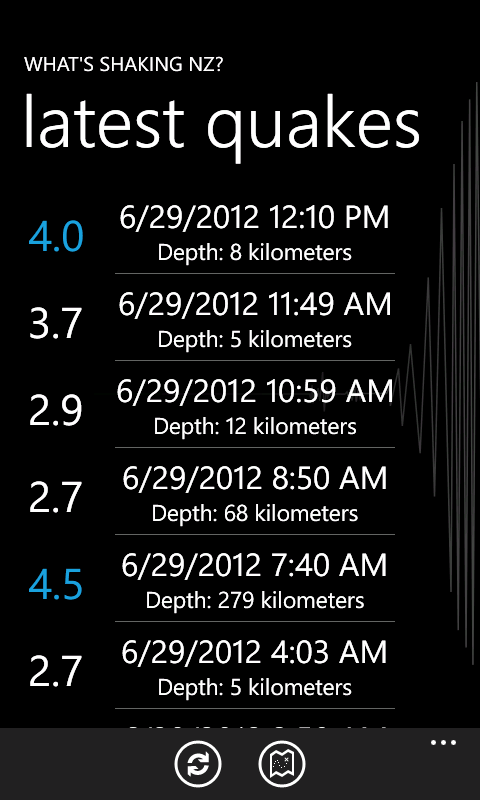
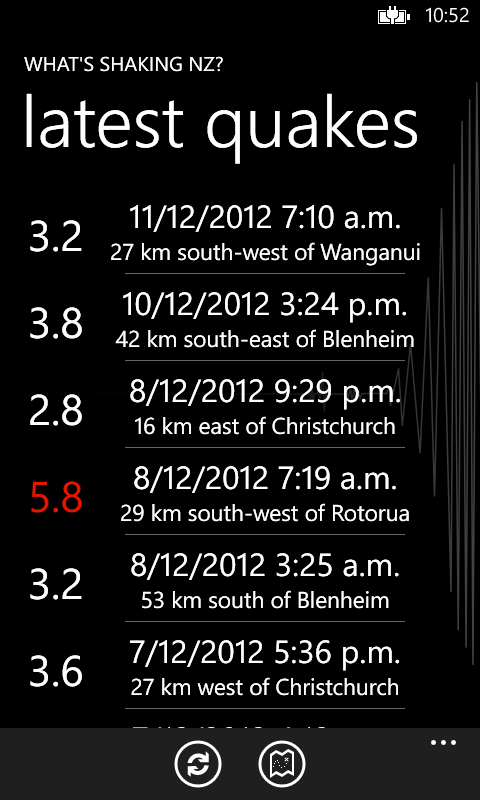
Site updated at 2012-12-14 04:04:32 UTC

diff --git a/blog/2012/12/14/windows-phone-7-update-1-dot-3/index.html b/blog/2012/12/14/windows-phone-7-update-1-dot-3/index.html
@@ -5,11 +5,11 @@
 <!--[if (gt IE 8)|(gt IEMobile 7)|!(IEMobile)|!(IE)]><!--><html class="no-js" lang="en"><!--<![endif]-->
 <head>
   <meta charset="utf-8">
-  <title>Category: android - What's Shaking, NZ?</title>
+  <title>Windows Phone 7 update 1.3 - What's Shaking, NZ?</title>
   <meta name="author" content="Adam Speakman">
 
   
-  <meta name="description" content="Category: android">
+  <meta name="description" content="The latest version of What&#8217;s Shaking, NZ? for Windows Phone was published today. This version has a few requested features, as well as a bit of &hellip;">
   
 
   <!-- http://t.co/dKP3o1e -->
@@ -18,7 +18,7 @@
   <meta name="viewport" content="width=device-width, initial-scale=1">
 
   
-  <link rel="canonical" href="http://adamsp.github.com/wsnz-websiteblog/categories/android/">
+  <link rel="canonical" href="http://adamsp.github.com/wsnz-website/blog/2012/12/14/windows-phone-7-update-1-dot-3/">
   <link href="/favicon.png" rel="icon">
   <link href="/stylesheets/screen.css" media="screen, projection" rel="stylesheet" type="text/css">
   <script src="/javascripts/modernizr-2.0.js"></script>
@@ -77,35 +77,93 @@
   <div id="main">
     <div id="content">
       <div>
-<article role="article">
+<article class="hentry" role="article">
   
   <header>
-    <h1 class="entry-title">Category: Android</h1>
+    
+      <h1 class="entry-title">Windows Phone 7 Update 1.3</h1>
+    
+    
+      <p class="meta">
+        
+
+
+
+
+
+
+
+
+  
+
+
+<time datetime="2012-12-14T16:25:00+13:00" pubdate data-updated="true">Dec 14<span>th</span>, 2012</time>
+        
+      </p>
     
   </header>
-  
-  <div id="blog-archives" class="category">
 
 
+<div class="entry-content"><p>The latest version of What&#8217;s Shaking, NZ? for Windows Phone was <a href="http://www.windowsphone.com/en-nz/store/app/what-shaking-nz/8c5077db-6a9a-4c29-b095-42fea91874d9">published today</a>. This version has a few requested features, as well as a bit of additional information to keep you better informed about the earthquakes around New Zealand. Read on to find out more.</p>
 
-  
-  <h2>2012</h2>
-
-<article>
-  
-<h1><a href="/blog/2012/10/06/android-version-now-available/">Android version now available!</a></h1>
-<time datetime="2012-10-06T14:29:00+13:00" pubdate><span class='month'>Oct</span> <span class='day'>06</span> <span class='year'>2012</span></time>
-
-<footer>
-  <span class="categories">posted in <a class='category' href='/blog/categories/android/'>android</a>, <a class='category' href='/blog/categories/news/'>news</a></span>
-</footer>
+<!--more-->
 
 
-</article>
+<p><a href="../../../../../windows-phone/screens/ss_01.png"><img class="left" src="../../../../../windows-phone/screens/ss_01.png" width="168" height="280" title="New quake location information" ></a></p>
 
+<p>The list view has a useful new feature - it tells you where the quake was! This appears as text with a direction and a distance from a New Zealand town or city - for example &#8220;5km south of Christchurch.&#8221; This allows you to quickly glance through the listed quakes and then drill in on ones that are close to places of interest to you, and to easier see patterns in recent quakes.</p>
+
+<p>On the quake detail page we now show the quakes &#8220;status&#8221; - primarily this will be either &#8216;automatic&#8217; or &#8216;reviewed&#8217;. You can tap on these words to get a pop-up describing what they mean, but basically &#8216;automatic&#8217; is a quake reported by the Geonet monitoring equipment, and &#8216;reviewed&#8217; means a Geonet technician has checked the quake, to make sure the equipment has provided an accurate report. Previously you had no way of knowing whether a quake was accurate or not - the initial automatic reports (within the first few minutes of a quake occurring) can be especially inaccurate.</p>
+
+<p>We&#8217;ve also added the ability to view <em>all</em> recent earthquakes from around New Zealand. Previously, we were only showing you those which were likely to have been felt. You can toggle this on/off on the Settings page - it&#8217;s off by default. There are a <strong>lot</strong> of earthquakes that are never felt by people, so this is most likely not something you want turned on all the time.</p>
+
+<p>These are the most noticeable changes. There have been a few changes behind the scenes, bug fixes and so-on, which you can <a href="https://github.com/adamsp/wsnz-windowsphone/commits/windows-phone-7.1">view on Github</a>.</p>
+
+<p>Enjoy the latest update, and keep an eye out for a Windows Phone 8 version coming soon!</p>
 </div>
 
+
+  <footer>
+    <p class="meta">
+      
   
+
+<span class="byline author vcard">Posted by <span class="fn">Adam Speakman</span></span>
+
+      
+
+
+
+
+
+
+
+
+  
+
+
+<time datetime="2012-12-14T16:25:00+13:00" pubdate data-updated="true">Dec 14<span>th</span>, 2012</time>
+      
+
+
+    </p>
+    
+      <div class="sharing">
+  
+  <a href="http://twitter.com/share" class="twitter-share-button" data-url="http://www.whatsshaking.co.nz/blog/2012/12/14/windows-phone-7-update-1-dot-3/" data-via="WhatsShakingNZ" data-counturl="http://www.whatsshaking.co.nz/blog/2012/12/14/windows-phone-7-update-1-dot-3/" >Tweet</a>
+  
+  
+  
+</div>
+
+    
+    <p class="meta">
+      
+        <a class="basic-alignment left" href="/blog/2012/10/06/android-version-now-available/" title="Previous Post: Android version now available!">&laquo; Android version now available!</a>
+      
+      
+    </p>
+  </footer>
 </article>
 
 </div>
@@ -150,6 +208,7 @@
 
   
 </aside>
+
 
     </div>
   </div>

diff --git a/index.html b/index.html
@@ -9,7 +9,7 @@
   <meta name="author" content="Adam Speakman">
 
   
-  <meta name="description" content="Today the Android version of What&#8217;s Shaking, NZ? was released on the Google Play Store. Features include automatic alerts for new quakes, map &hellip;">
+  <meta name="description" content="The latest version of What&#8217;s Shaking, NZ? for Windows Phone was published today. This version has a few requested features, as well as a bit of &hellip;">
   
 
   <!-- http://t.co/dKP3o1e -->
@@ -78,6 +78,47 @@
     <div id="content">
       <div class="blog-index">
   
+  
+  
+    <article>
+      
+  <header>
+    
+      <h1 class="entry-title"><a href="/blog/2012/12/14/windows-phone-7-update-1-dot-3/">Windows Phone 7 Update 1.3</a></h1>
+    
+    
+      <p class="meta">
+        
+
+
+
+
+
+
+
+
+  
+
+
+<time datetime="2012-12-14T16:25:00+13:00" pubdate data-updated="true">Dec 14<span>th</span>, 2012</time>
+        
+      </p>
+    
+  </header>
+
+
+  <div class="entry-content"><p>The latest version of What&#8217;s Shaking, NZ? for Windows Phone was <a href="http://www.windowsphone.com/en-nz/store/app/what-shaking-nz/8c5077db-6a9a-4c29-b095-42fea91874d9">published today</a>. This version has a few requested features, as well as a bit of additional information to keep you better informed about the earthquakes around New Zealand. Read on to find out more.</p>
+
+</div>
+  
+  
+    <footer>
+      <a rel="full-article" href="/blog/2012/12/14/windows-phone-7-update-1-dot-3/">Read on &rarr;</a>
+    </footer>
+  
+
+
+    </article>
   
   
     <article>
@@ -178,6 +219,10 @@
     <section>
   <h1>Recent Posts</h1>
   <ul id="recent_posts">
+    
+      <li class="post">
+        <a href="/blog/2012/12/14/windows-phone-7-update-1-dot-3/">Windows Phone 7 update 1.3</a>
+      </li>
     
       <li class="post">
         <a href="/blog/2012/10/06/android-version-now-available/">Android version now available!</a>

diff --git a/blog/archives/index.html b/blog/archives/index.html
@@ -9,9 +9,10 @@
   <meta name="author" content="Adam Speakman">
 
   
-  <meta name="description" content="Blog Archive 2012 Android version now available!
+  <meta name="description" content="Blog Archive 2012 Windows Phone 7 update 1.3
+Dec 14 2012 Android version now available!
 Oct 06 2012 posted in android, news Welcome!
-Aug 22 2012 posted in news Recent Posts Android &hellip;">
+Aug 22 2012 &hellip;">
   
 
   <!-- http://t.co/dKP3o1e -->
@@ -95,6 +96,16 @@ Aug 22 2012 posted in news Recent Posts Android &hellip;">
 
 <article>
   
+<h1><a href="/blog/2012/12/14/windows-phone-7-update-1-dot-3/">Windows Phone 7 update 1.3</a></h1>
+<time datetime="2012-12-14T16:25:00+13:00" pubdate><span class='month'>Dec</span> <span class='day'>14</span> <span class='year'>2012</span></time>
+
+
+</article>
+
+
+
+<article>
+  
 <h1><a href="/blog/2012/10/06/android-version-now-available/">Android version now available!</a></h1>
 <time datetime="2012-10-06T14:29:00+13:00" pubdate><span class='month'>Oct</span> <span class='day'>06</span> <span class='year'>2012</span></time>
 
@@ -131,6 +142,10 @@ Aug 22 2012 posted in news Recent Posts Android &hellip;">
     <section>
   <h1>Recent Posts</h1>
   <ul id="recent_posts">
+    
+      <li class="post">
+        <a href="/blog/2012/12/14/windows-phone-7-update-1-dot-3/">Windows Phone 7 update 1.3</a>
+      </li>
     
       <li class="post">
         <a href="/blog/2012/10/06/android-version-now-available/">Android version now available!</a>

diff --git a/blog/2012/10/06/android-version-now-available/index.html b/blog/2012/10/06/android-version-now-available/index.html
@@ -157,6 +157,8 @@
         <a class="basic-alignment left" href="/blog/2012/08/22/welcome/" title="Previous Post: Welcome!">&laquo; Welcome!</a>
       
       
+        <a class="basic-alignment right" href="/blog/2012/12/14/windows-phone-7-update-1-dot-3/" title="Next Post: Windows Phone 7 update 1.3">Windows Phone 7 update 1.3 &raquo;</a>
+      
     </p>
   </footer>
 </article>
@@ -168,6 +170,10 @@
     <section>
   <h1>Recent Posts</h1>
   <ul id="recent_posts">
+    
+      <li class="post">
+        <a href="/blog/2012/12/14/windows-phone-7-update-1-dot-3/">Windows Phone 7 update 1.3</a>
+      </li>
     
       <li class="post">
         <a href="/blog/2012/10/06/android-version-now-available/">Android version now available!</a>

diff --git a/blog/2012/08/22/welcome/index.html b/blog/2012/08/22/welcome/index.html
@@ -178,6 +178,10 @@
   <ul id="recent_posts">
     
       <li class="post">
+        <a href="/blog/2012/12/14/windows-phone-7-update-1-dot-3/">Windows Phone 7 update 1.3</a>
+      </li>
+    
+      <li class="post">
         <a href="/blog/2012/10/06/android-version-now-available/">Android version now available!</a>
       </li>
     

diff --git a/blog/categories/news/index.html b/blog/categories/news/index.html
@@ -131,6 +131,10 @@
   <ul id="recent_posts">
     
       <li class="post">
+        <a href="/blog/2012/12/14/windows-phone-7-update-1-dot-3/">Windows Phone 7 update 1.3</a>
+      </li>
+    
+      <li class="post">
         <a href="/blog/2012/10/06/android-version-now-available/">Android version now available!</a>
       </li>
     
